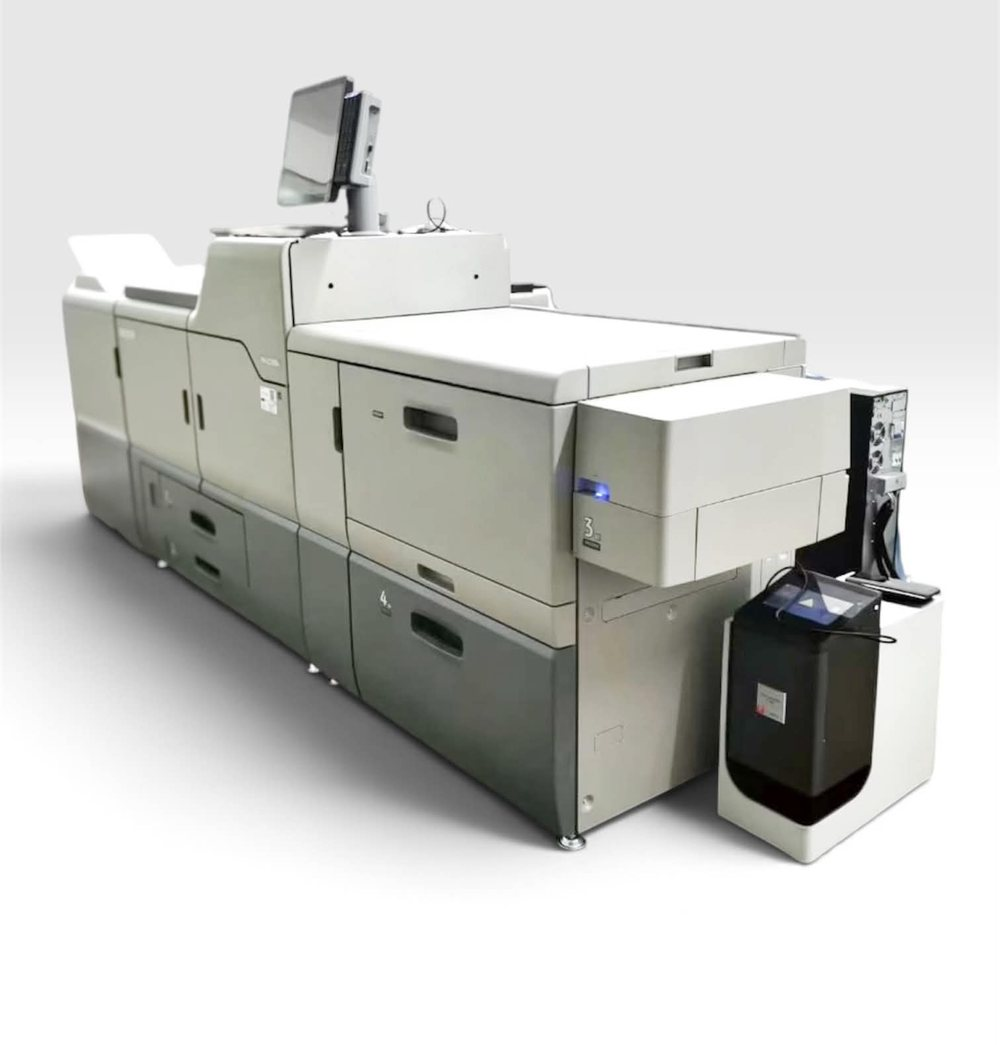
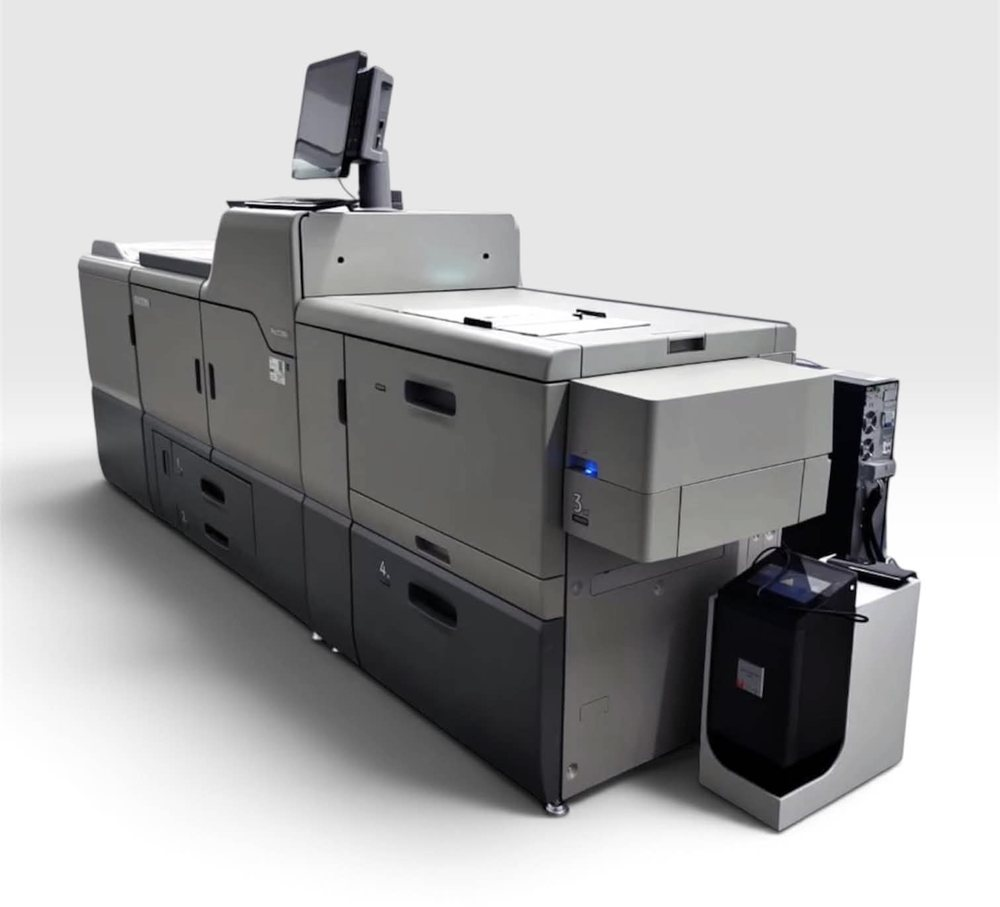
Add files via upload
เปลี่ยนรูป Ricoh

diff --git a/digital.html b/digital.html
@@ -15,7 +15,7 @@
 <p>ไม่ว่าจะทรงกลม ทรงเหลี่ยม หรือไดคัทตามทรง สั่งน้อยหรือมาก ก็คิดราคาต่อดวงตามขนาดและจำนวนที่ใช้จริง<br>พิมพ์ด้วย RICOH Pro C7200X เครื่องพิมพ์ดิจิทัลระดับโปรดักชัน ที่พิมพ์สีพิเศษได้เพิ่มอีก 1 สี นอกเหนือจาก CMYK (5th Color Station)<br>ไม่ต้องทำแม่พิมพ์ ได้งานสวยและไว</p>
 <p><a class="btn r" href="https://line.me/R/ti/p/@vpackprinting" target="_blank" rel="noopener">ทัก Line สั่งงาน</a> <a class="btn" href="quote.html">กรอกสเปกขอราคา</a></p>
 </div>
-<figure class="dg-pic"><img width="1000" height="1045" src="img/ricoh-angle.jpg" alt="เครื่องพิมพ์ดิจิทัล RICOH Pro C7200X ของ V-pack"><figcaption>RICOH Pro C7200X พิมพ์ CMYK + สีพิเศษอีก 1 สี</figcaption></figure>
+<figure class="dg-pic"><img width="1000" height="907" src="img/ricoh-angle.jpg" alt="เครื่องพิมพ์ดิจิทัล RICOH Pro C7200X ของ V-pack"><figcaption>RICOH Pro C7200X พิมพ์ CMYK + สีพิเศษอีก 1 สี</figcaption></figure>
 </div></section>
 <section class="sec alt"><div class="w"><h2>จุดเด่นของงานดิจิทัล</h2><div class="grid">
 <div class="card"><h3>คิดราคาเป็นดวง</h3><p>จ่ายตามจำนวนดวงที่ใช้ติดสินค้าจริง ไม่ต้องคำนวณเป็นตารางเมตร เข้าใจง่าย</p></div>
